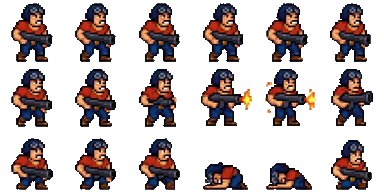
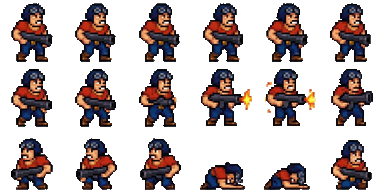
Fix backwards-walking enemies: sheets had mixed row directions
The enemy sheets are not uniformly oriented: the grunt's idle/fire row
faces right but its walk and death rows face LEFT, and the heavy's walk
and lying-down frames face LEFT while everything else faces right.
That's why flipping the flip condition (v12) fixed aiming but made all
walking enemies moonwalk.

- Asset-level fix: mirrored grunt frames 8-13 and 16-21, heavy frames
  12-16, so both sheets are now consistently right-facing in every
  frame; runtime flip logic (mirror when facing < 0) unchanged
- Verified with movement sequences: position increases while the
  sprite faces right, and vice versa
- BUILD v13, service worker cache v13

Claude-Session: https://claude.ai/code/session_01WciL2daYyJW2Bhgb5yGRdJ

diff --git a/rungun/game.js b/rungun/game.js
@@ -10,7 +10,7 @@ const ctx = canvas.getContext('2d');
 ctx.imageSmoothingEnabled = false;
 
 const W = 640, H = 360;
-const BUILD = 'v12'; // visas på titelskärmen — bumpa ihop med sw.js-cachen
+const BUILD = 'v13'; // visas på titelskärmen — bumpa ihop med sw.js-cachen
 const TILE = 32;
 
 // ---- Sprite frames ---------------------------------------------------------

diff --git a/rungun/sw.js b/rungun/sw.js
@@ -1,6 +1,6 @@
 'use strict';
 // Enkel cache-first service worker så spelet funkar offline som webapp.
-const CACHE = 'commando-strike-v12';
+const CACHE = 'commando-strike-v13';
 const CORE = [
   './',
   './index.html',